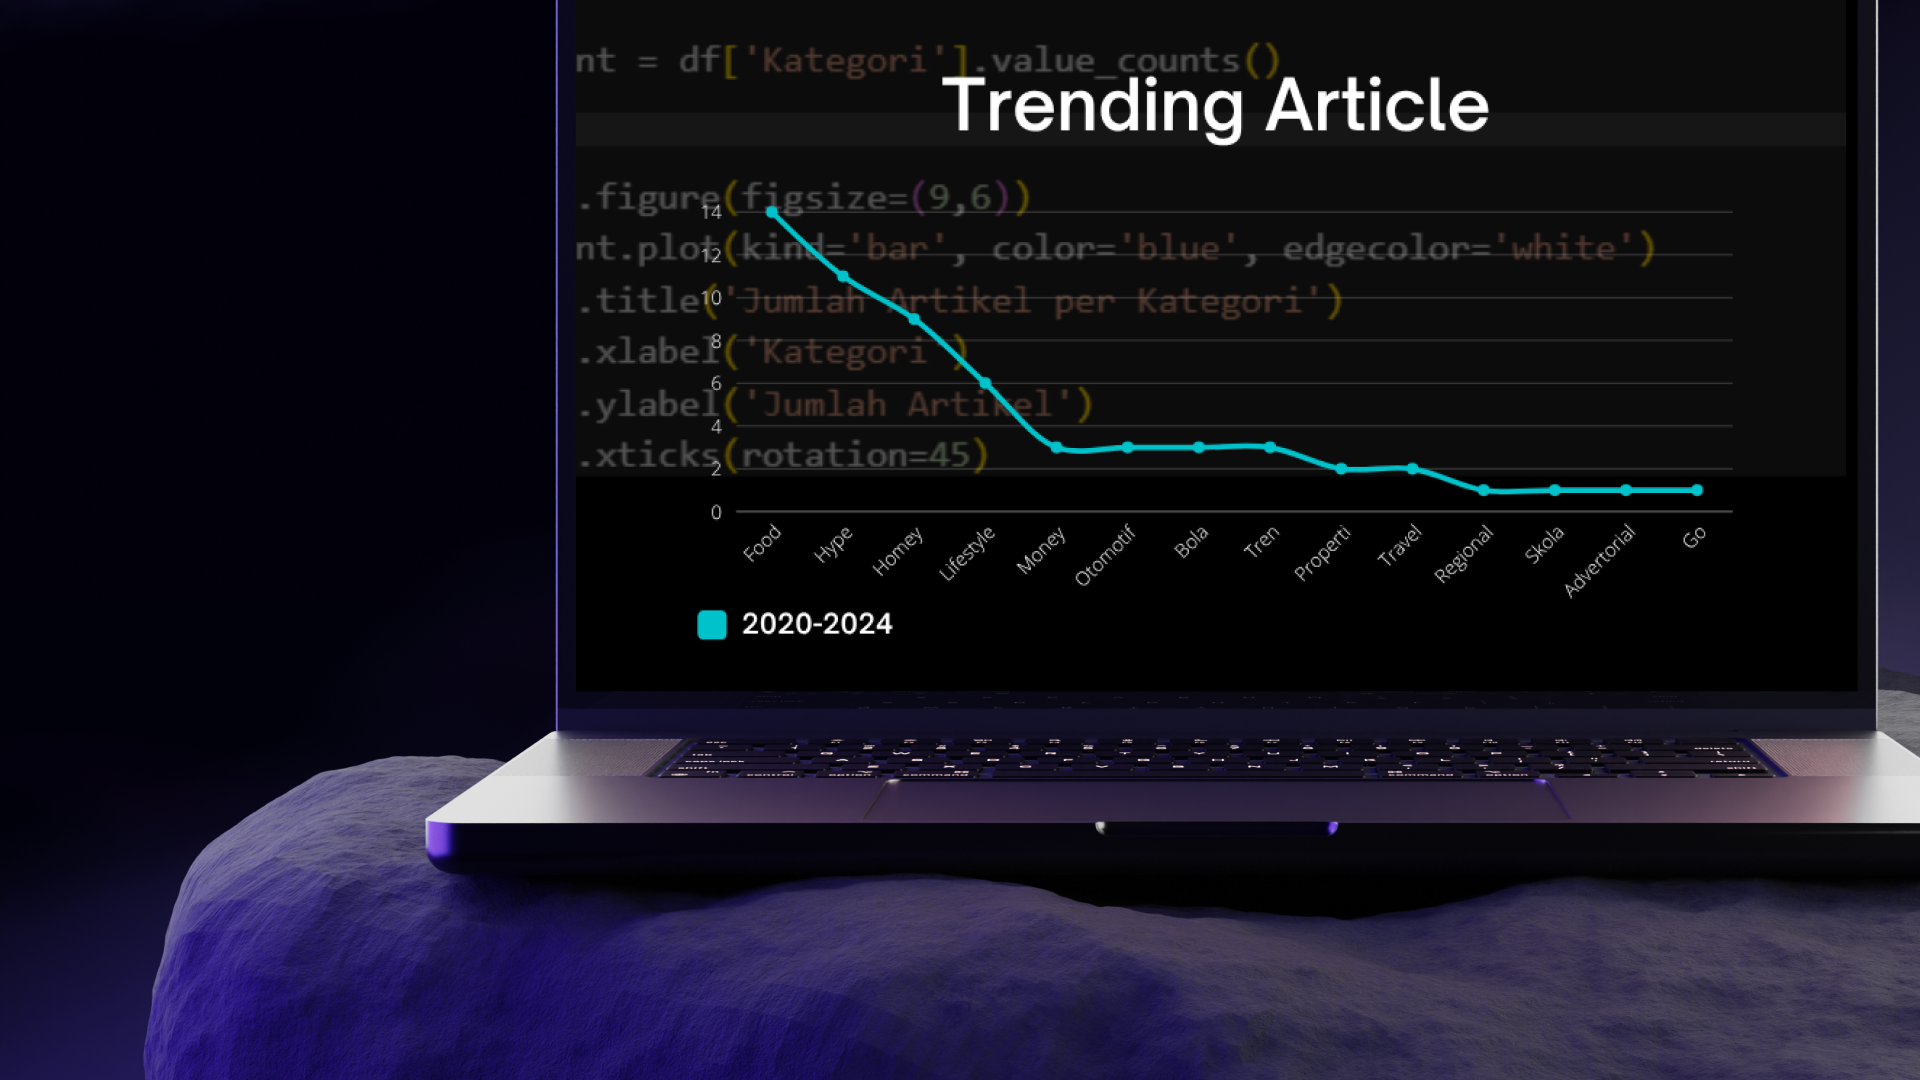
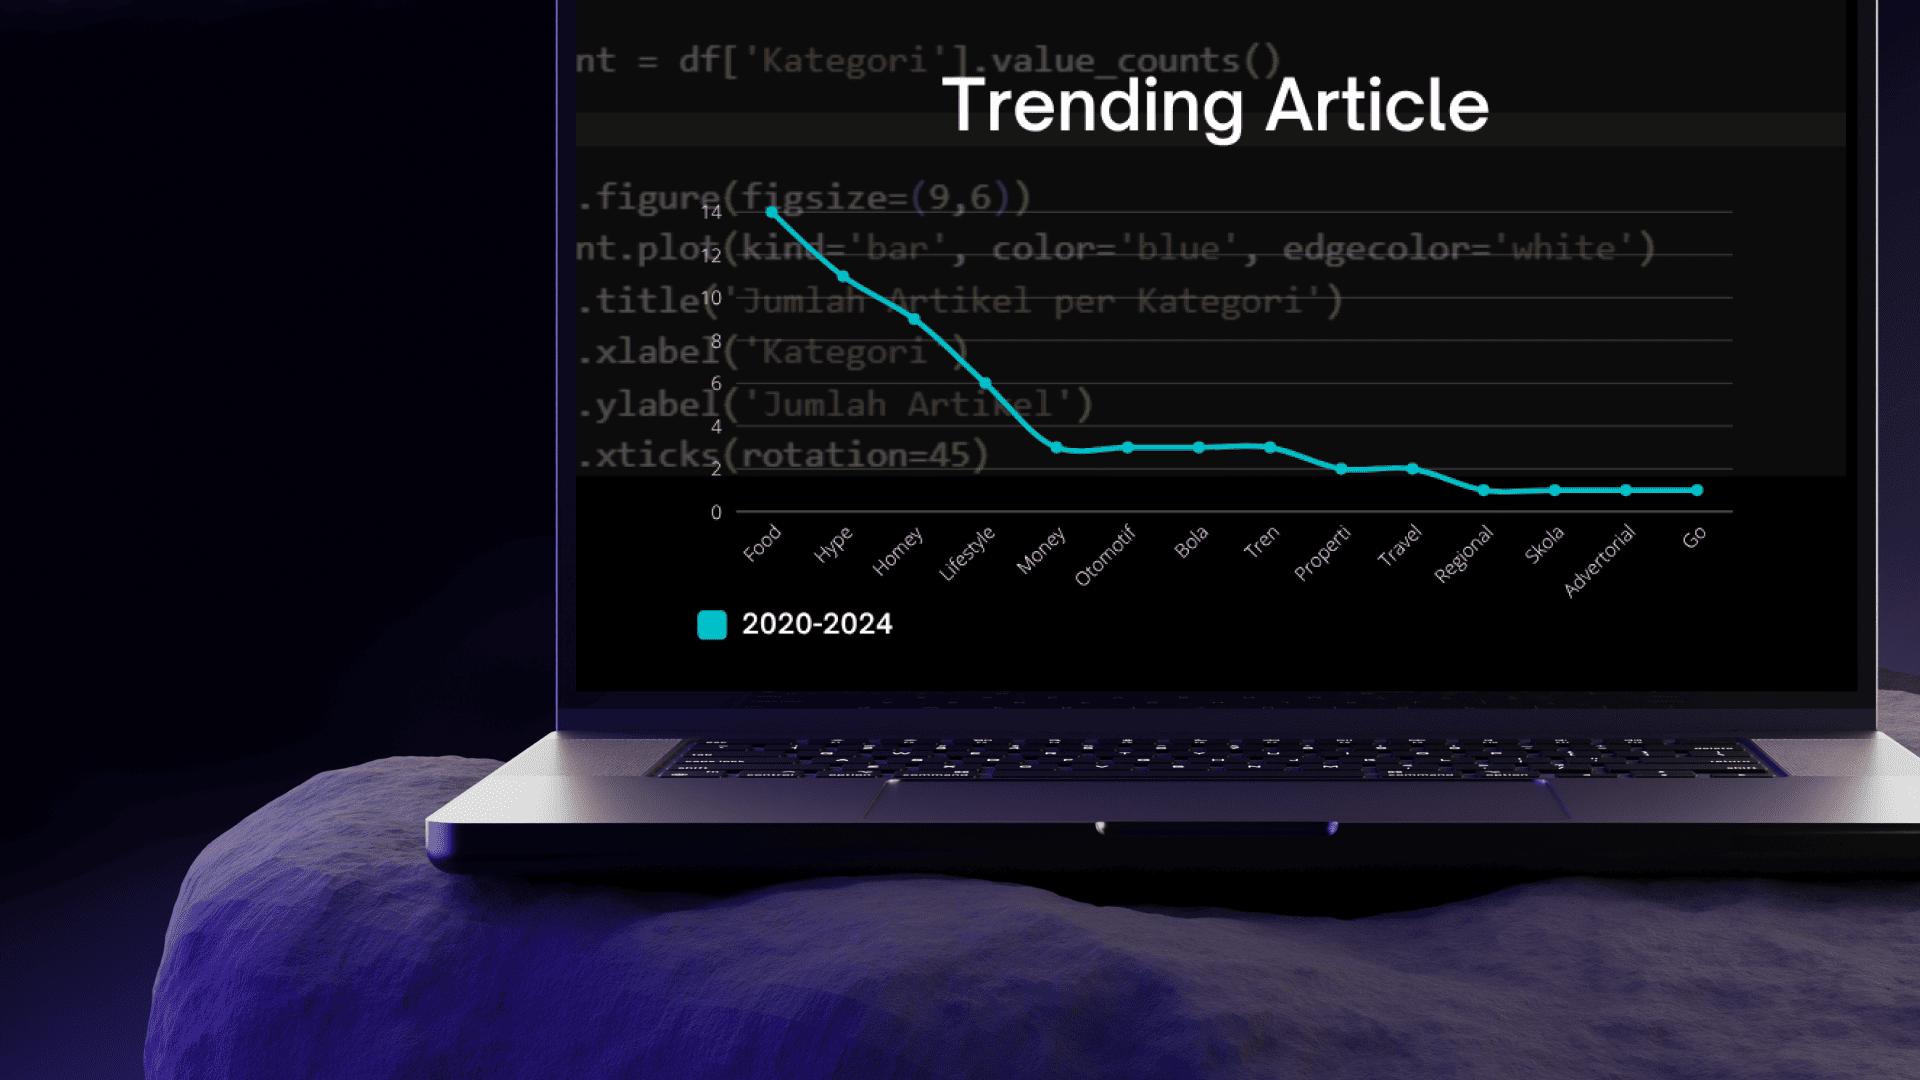
update project card img

diff --git a/index.html b/index.html
@@ -5,7 +5,7 @@
     <meta charset="UTF-8">
     <meta name="viewport" content="width=device-width, initial-scale=1.0">
     <meta name="description" content="Fadhilah Alya Prastinanda - System Analyst Portfolio">
-    <title>Fadhilah Alya Prastinanda | System Analyst</title>
+    <title>Fadhilah Alya Prastinanda</title>
     <link rel="stylesheet" href="css/style.css">
 </head>
 
@@ -462,7 +462,7 @@
                             <div class="project-content">
 
                                 <div class="project-image">
-                                    <img src="assets/images/tdc.png" alt="TDC Dashboard">
+                                    <img src="assets/images/tdc.jpg" alt="TDC Dashboard">
                                 </div>
 
 
@@ -491,16 +491,16 @@
                                 <div class="project-links">
                                     <a href="https://drive.google.com/file/d/1sFbezyhj0JxYI9TUnlEROBoibQ_0fAYO/view?usp=sharing"
                                         class="project-link" target="_blank">
-                                        View Document ↗
+                                        View Document
                                     </a>
 
                                     <a href="https://github.com/fadhilalpr24/dashboard_brifirst" class="project-link"
                                         target="_blank">
-                                        Repository ↗
+                                        Repository
                                     </a>
                                     <a href="https://drive.google.com/file/d/1JDRHrOMrpyfXaCxSPbDBIClA7gKBFx8R/view?usp=sharing"
                                         class="project-link" target="_blank">
-                                        Certificate ↗
+                                        Certificate
                                     </a>
                                 </div>
 
@@ -545,11 +545,11 @@
                                 <div class="project-links">
                                     <a href="https://github.com/fadhilalpr24/web_scraping_kompas" class="project-link"
                                         target="_blank">
-                                        View Github ↗
+                                        View Github
                                     </a>
                                     <a href="https://drive.google.com/file/d/1Vis0rEyRhQQ7fUFkH5Zy-Ja1YY5Iw_G8/view?usp=sharing"
                                         class="project-link" target="_blank">
-                                        Certificate ↗
+                                        Certificate
                                     </a>
 
 
@@ -591,7 +591,7 @@
                                 <div class="project-links">
                                     <a href="https://drive.google.com/file/d/15w1-strdh1e9hk86h_f4LsysBgJyuncQ/view?usp=sharing"
                                         class="project-link" target="_blank">
-                                        View Document ↗
+                                        View Document
                                     </a>
                                 </div>
 
@@ -606,7 +606,7 @@
                             <div class="project-content">
 
                                 <div class="project-image">
-                                    <img src="assets/images/livetix.png" alt="escapade">
+                                    <img src="assets/images/livetix.jpg" alt="escapade">
                                 </div>
 
                                 <p class="project-category" data-category="uiux">
@@ -633,7 +633,7 @@
 
                                     <a href="https://www.figma.com/proto/H6oGViRxxwIbecq8XgGhkf/livetix?type=design&node-id=68-1320&t=UoOklNlWi8w0r5Hy-1&scaling=scale-down&page-id=0%3A1"
                                         class="project-link" target="_blank" rel="noopener noreferrer">
-                                        View Demo ↗
+                                        View Demo
                                     </a>
                                 </div>
 
@@ -646,7 +646,7 @@
                             <div class="project-content">
 
                                 <div class="project-image">
-                                    <img src="assets/images/mentory.png" alt="escapade">
+                                    <img src="assets/images/mentory.jpg" alt="escapade">
                                 </div>
 
                                 <p class="project-category" data-category="uiux">
@@ -665,13 +665,14 @@
                                     <span>Figma</span>
                                     <span>UI Design</span>
                                     <span>UX Design</span>
+                                    <span>User Acceptance Testing</span>
                                 </div>
 
 
                                 <div class="project-links">
                                     <a href="https://www.figma.com/proto/l07UF0tRtUoucmetqIfSlW/Mentory---PUX-Kelompok-7?node-id=104-28&starting-point-node-id=105%3A906&scaling=scale-down&t=t2rqvGK3t5hEiqqU-1"
                                         class="project-link" target="_blank" rel="noopener noreferrer">
-                                        View Demo ↗
+                                        View Demo
                                     </a>
                                 </div>
 
@@ -694,18 +695,16 @@
                                 <h3>LAUNDRY MOBILE APP</h3>
 
                                 <p>
-                                    A mobile laundry service application designed to improve communication between
-                                    customers
-                                    and laundry businesses and reduce miscommunication during transactions. Developed as
-                                    part of a national-level competition at Universitas Dinamika and selected as one of
-                                    the
-                                    Top 10 finalists.
+                                    A mobile laundry service application designed to improve customer-business
+                                    communication. Developed for a national competition at Universitas Dinamika and
+                                    selected as a Top 10 finalist.
                                 </p>
 
                                 <div class="project-tags">
                                     <span>Figma</span>
                                     <span>UI Design</span>
                                     <span>UX Design</span>
+                                    <span>User Acceptance Testing</span>
                                 </div>
 
 
@@ -713,11 +712,11 @@
 
                                     <a href="https://www.figma.com/proto/lNM78TuYIIO2zei9Duxp4w/Incredible-bismillah?node-id=40-3099&starting-point-node-id=40%3A3099&scaling=scale-down"
                                         class="project-link" target="_blank" rel="noopener noreferrer">
-                                        View Demo ↗
+                                        View Demo
                                     </a>
                                     <a href="https://drive.google.com/file/d/1g0VDrmTQu2LSjD3zzlmxNtV19mm1fzpB/view?usp=sharing"
                                         class="project-link" target="_blank">
-                                        Certificate ↗
+                                        Certificate
                                     </a>
                                 </div>
 

diff --git a/css/style.css b/css/style.css
@@ -844,7 +844,7 @@ button {
     gap: 8px;
 
     margin-top: auto;
-    padding-top: 22px;
+    /* padding-top: 22px; */
 }
 
 .project-link {
